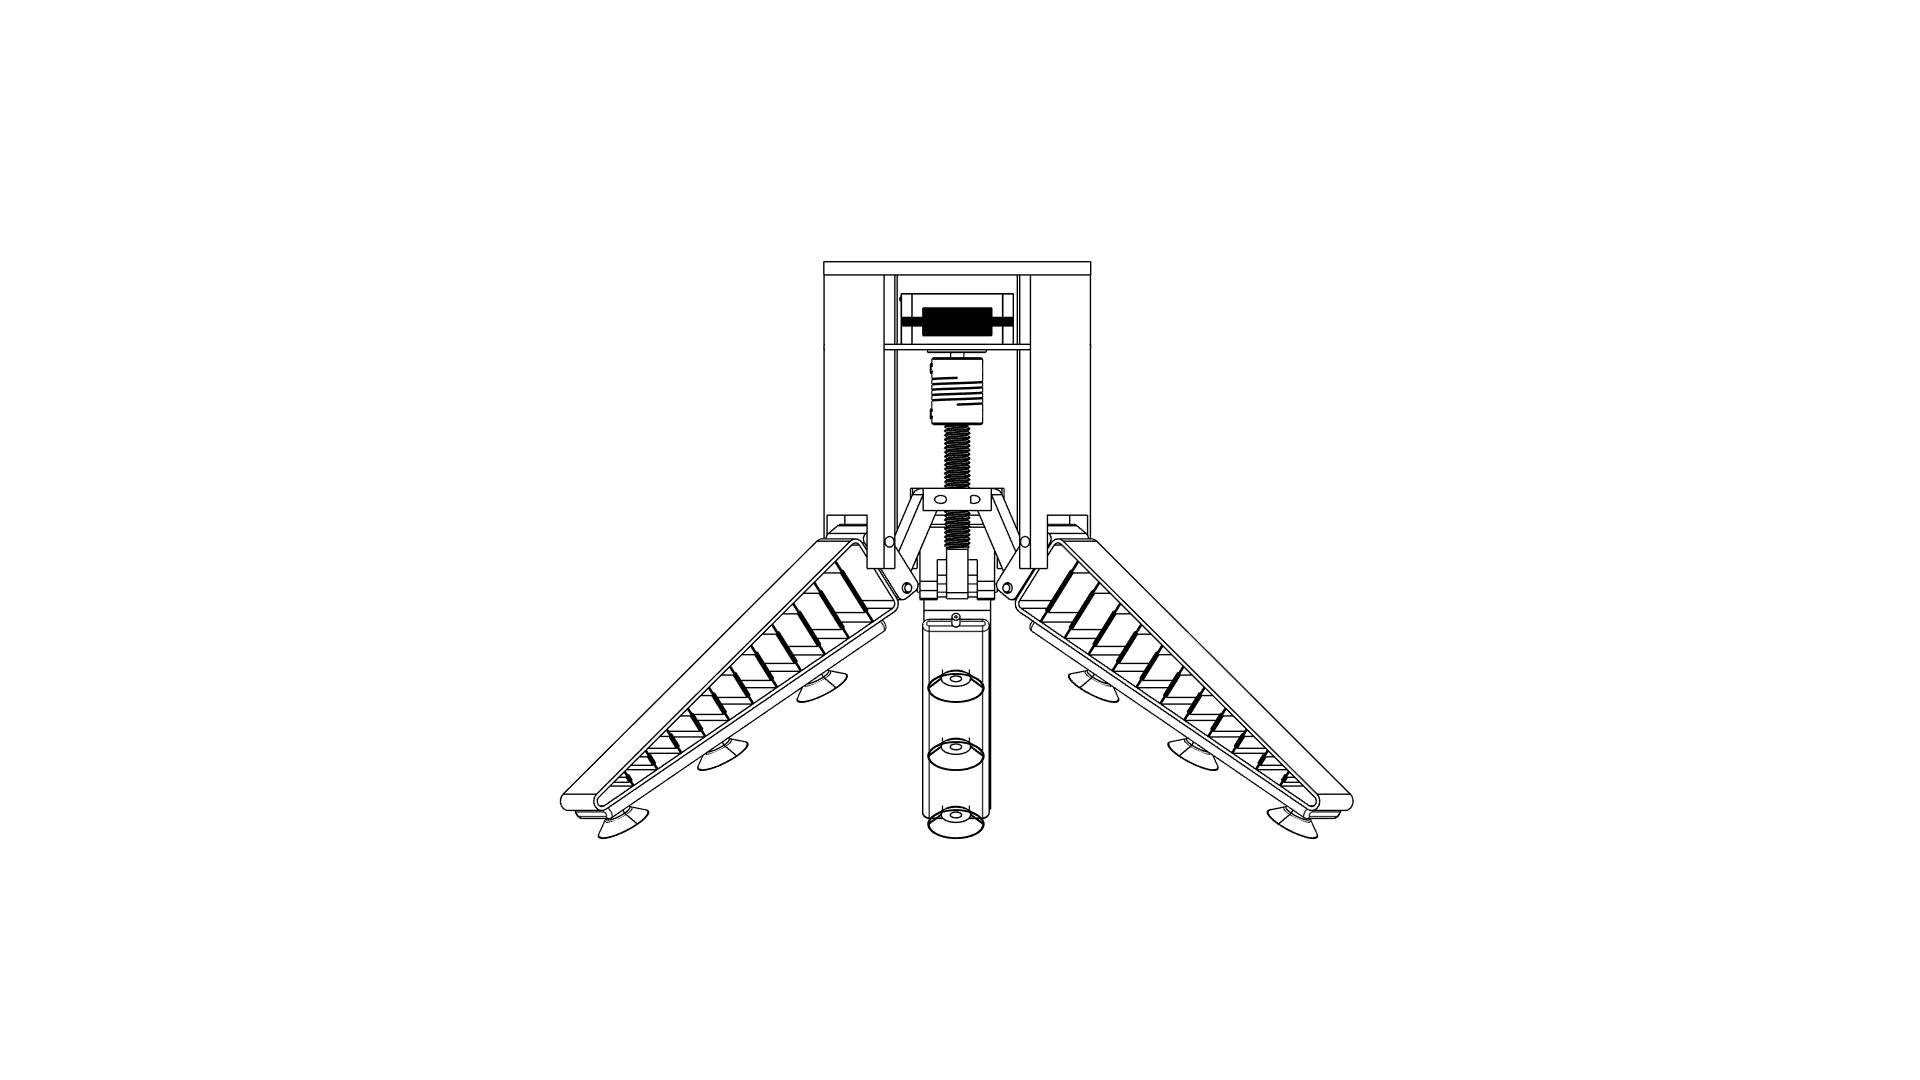
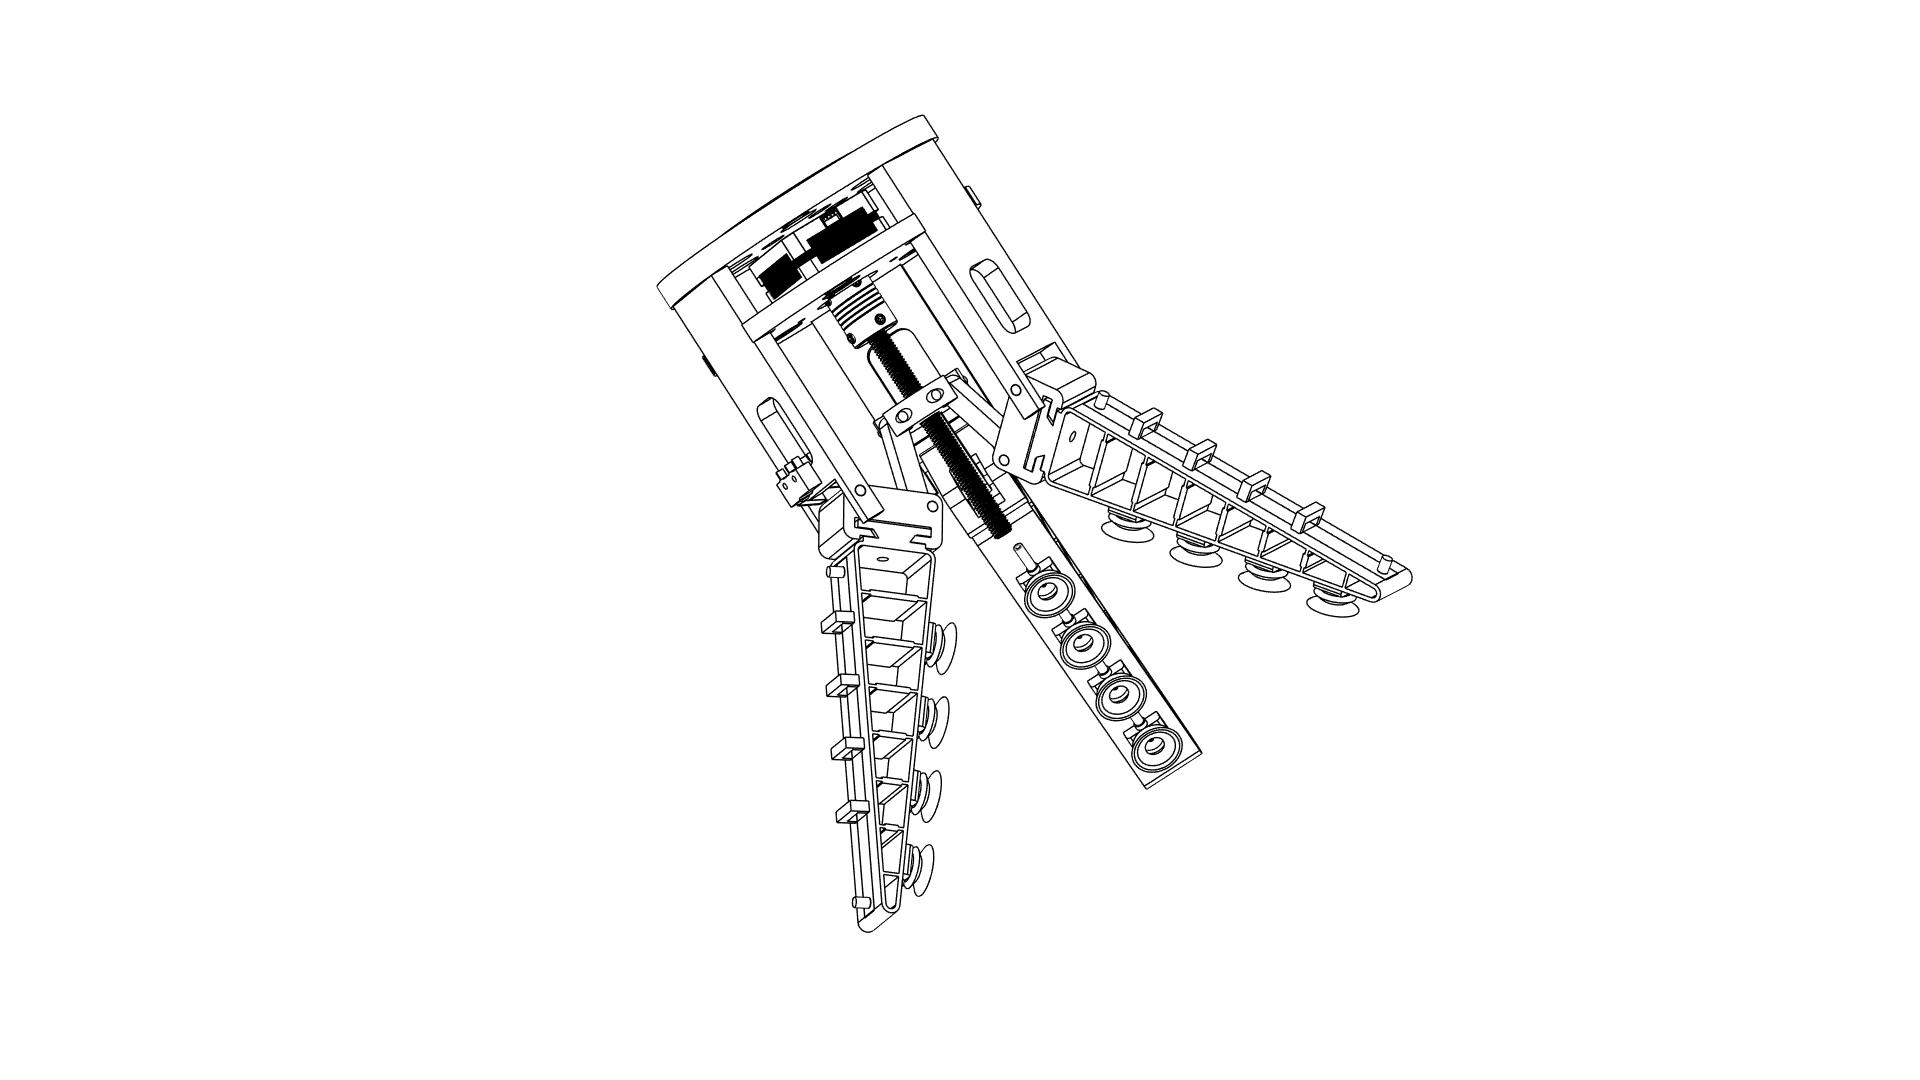
commit 51

Changed region(s): [[0.2812, 0.1528, 0.75, 0.8556], [0.4688, 0.1222, 0.5, 0.1528]]

diff --git a/site/collections/_projects/Adaptive Vacuum Gripper.md b/site/collections/_projects/Adaptive Vacuum Gripper.md
@@ -1,26 +1,136 @@
 ---
 date: 2021-03-18
 title: Adaptive Vacuum Gripper
-subtitle: Bio-Inspired Compliant Manipulation
+subtitle: Bio-Inspired Compliant Manipulation with Electrostatic Stiffness Control
 image: '/images/gripper_cover.jpg'
 category: research
 featured: true
 ---
 
 ## Overview
-A bio-inspired adaptive gripper designed for handling irregular objects.
-The design combined Fin Ray compliant structures with suction and electrostatic braking.
 
-## Design Highlights
-- Fin Ray inspired flexible structure
-- Hybrid suction gripping
-- Electrostatic locking mechanism
+This project explores a **hybrid adaptive gripper** that combines **Fin Ray effect compliant fingers**, **vacuum suction**, and **electrostatic braking** to achieve **shape-adaptive grasping with controllable stiffness**.
+
+The core idea was to overcome a common limitation of soft grippers:  
+> *high adaptability but low load stability.*
+
+By selectively **locking compliance using electrostatic brakes**, the gripper can switch between:
+- **Soft, conformal grasping** for irregular objects  
+- **Stiff, load-bearing holding** for pick-and-place and palletizing tasks  
+
+This enables **multi-task manipulation using a single end-effector**, reducing tool changes and system complexity.
+
+---
+
+## Design Inspiration
+
+The gripper design is inspired by two key research directions:
+
+### 1. Fin Ray Effect (Festo Adaptive Gripper Fingers)
+- Passive compliance using triangular rib structures
+- Shape adaptation without complex sensing
+- Widely used for fragile and irregular objects
+
+### 2. Electrostatic Braking (DextrES)
+- Thin, low-power electrostatic brakes
+- Ability to **lock motion on demand**
+- Originally developed for haptic feedback and stiffness modulation
+
+**This project combines both concepts**, using electrostatic braking to actively control the stiffness of Fin Ray compliant fingers.
+
+---
+
+## Mechanical Architecture
+
+![Exploded View](/images/gripper_exploded.jpg)
+
+**Key components:**
+- Fin Ray inspired flexible fingers (3D printed)
+- Central vacuum suction cups
+- Electrostatic brake layers integrated along finger flex zones
+- Modular base for industrial robot mounting (ABB test mount)
+
+![ABB Mount Test](/images/Robot mounting check.jpg)
+
+---
+
+## Actuation & Electronics
+
+![Control Electronics](/images/adaptive gripper pcb.jpg)
+
+- **Controller:** ESP8266
+- **Motor Driver:** DRV8825 (stepper control for vacuum and brake actuation)
+- **Custom perf-board circuit** with JST connectors
+- Separate power domains for:
+  - Logic
+  - Vacuum system
+  - Electrostatic brake drive
+
+The electrostatic brakes are energized only during **stiffness locking**, resulting in **low average power consumption**.
+
+---
+
+## Control Interface
+
+![Mobile App](/images/gripper app.jpg)
+
+A **custom control interface** was developed using **MIT App Inventor**, enabling:
+- Grasp mode selection (soft / stiff)
+- Vacuum on/off control
+- Manual release and reset
+- Rapid experimentation during testing
+
+---
+
+## Grasping Strategy
+
+### Soft Mode
+- Fin Ray fingers deform freely
+- Vacuum cups assist initial contact
+- Ideal for fragile or irregular objects
+
+### Lock Mode
+- Electrostatic brakes engage
+- Finger compliance is arrested
+- Grasp becomes rigid and load-stable
+
+![Components](/images/projects/main components.jpg)
+
+---
 
 ## Industrial Relevance
-- Pick and place
+
+This hybrid approach enables **multi-function manipulation with a single gripper**:
+
+**Example workflow:**
+- Pick individual water bottles using compliant grasp
+- Place bottles inside a carton
+- Lift and palletize the filled carton
+- No gripper change, no tool swap, no second robot
+
+**Target applications:**
+- Pick & place
 - Palletizing
-- Irregular object handling
+- Mixed object handling
+- Logistics automation
+- Human-safe collaborative robots
+
+---
 
 ## Key Learnings
-- Compliance improves adaptability but complicates control
-- Mechanical intelligence reduces sensing requirements
+
+- Passive compliance reduces sensing requirements but limits load stability
+- Electrostatic braking enables **mechanical intelligence**
+- Stiffness modulation is more effective than force control alone
+- Hybrid grippers can significantly reduce system complexity in real deployments
+
+---
+
+## References & Background
+
+- **Festo Adaptive Gripper (Fin Ray Effect)**
+- **DextrES: Wearable Haptic Feedback via Electrostatic Braking**
+- Fin Ray Effect Inspired Soft Robotic Grippers (Frontiers in Robotics & AI)
+
+> *Additional design details, calculations, and experimental notes are available upon request.*
+
